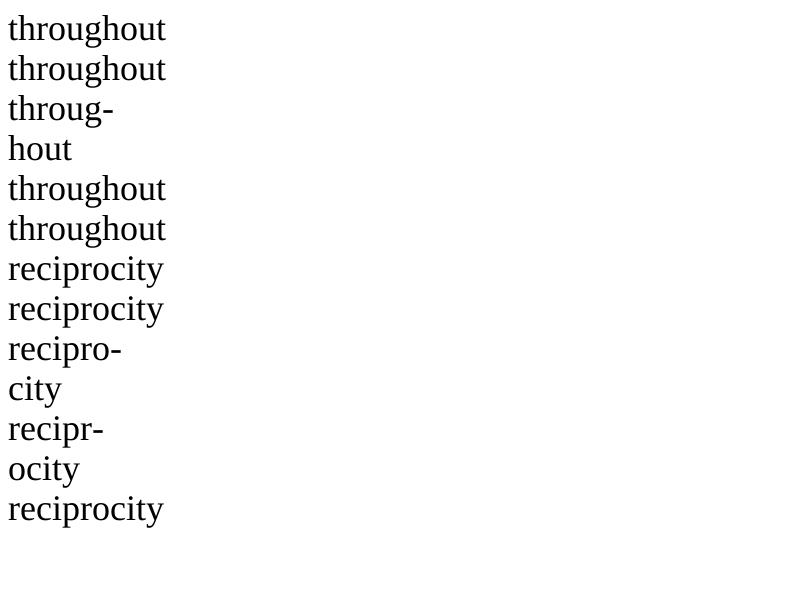
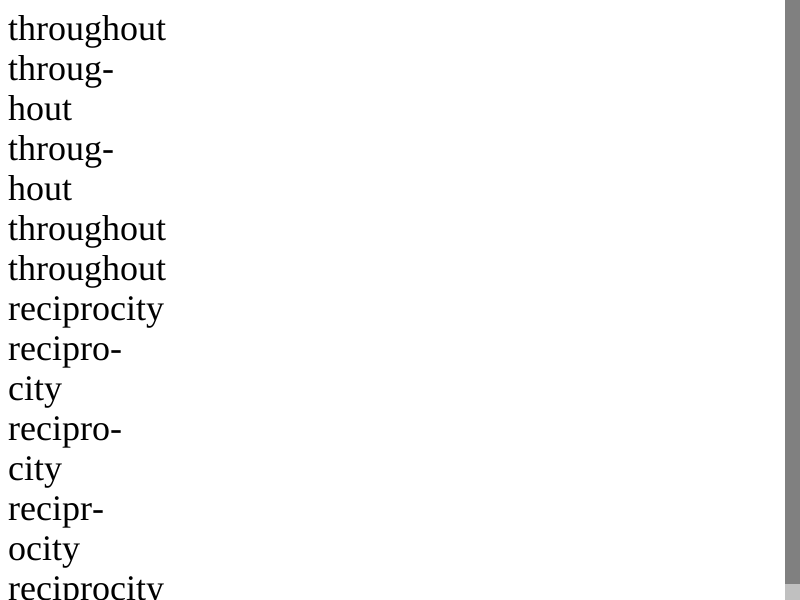
[GTK] [EFL] Hyphenation can never work in practice due to requirements on lang tags https://bugs.webkit.org/show_bug.cgi?id=147310
Patch by Martin Robinson <mrobinson@igalia.com> on 2016-01-14
Reviewed by Michael Catanzaro.

Source/WebCore:

Test: platform/gtk/fast/text/hyphenate-flexible-locales.html

* platform/text/hyphen/HyphenationLibHyphen.cpp: Make locale matching for dictionary
selection a lot looser by matching case insensitively, matching multiple dictionaries
when only the language is specified, and ignoring the difference between '_' and '-' in
the locale name.
(WebCore::scanDirectoryForDicionaries): Now produce HashMap of Vectors instead of a single
path for each locale. Also add alternate entries to handle different ways of specifying
the locale.
(WebCore::scanTestDictionariesDirectoryIfNecessary): Update to handle the difference
in HashMap type.
(WebCore::availableLocales): Ditto.
(WebCore::canHyphenate): Also look for the lowercased version of the locale.
(WebCore::AtomicStringKeyedMRUCache<RefPtr<HyphenationDictionary>>::createValueForKey):
Key on the dictionary path now so that we can load more than one dictionary per locale.
(WebCore::lastHyphenLocation): Iterate through each matched dictionary in turn.

LayoutTests:

Update some baselines and add a GTK+ specific test for locale variations.

* platform/gtk/fast/text/hyphenate-flexible-locales-expected.html: Added.
* platform/gtk/fast/text/hyphenate-flexible-locales.html: Added.
* platform/gtk/fast/text/hyphenate-locale-expected.png: We now properly hyphenate
text with the 'en' locale.
[…]

diff --git a/LayoutTests/platform/gtk/fast/text/hyphenate-flexible-locales-expected.html b/LayoutTests/platform/gtk/fast/text/hyphenate-flexible-locales-expected.html
@@ -1,0 +1,11 @@
+<div style="-webkit-hyphens: auto; font-size: 36px; width: 130px;">
+    <div style="-webkit-locale: 'en_US';">throughout</div>
+    <div style="-webkit-locale: 'en_US';">throughout</div>
+    <div style="-webkit-locale: 'en_US';">throughout</div>
+    <div style="-webkit-locale: 'en_US';">throughout</div>
+    <div style="-webkit-locale: 'en_US';">throughout</div>
+    <div style="-webkit-locale: 'en_US';">throughout</div>
+    <div style="-webkit-locale: 'en_US';">throughout</div>
+    <div style="-webkit-locale: 'en_US';">throughout</div>
+    <div style="-webkit-locale: 'en_US';">throughout</div>
+</div>

diff --git a/LayoutTests/platform/gtk/fast/text/hyphenate-flexible-locales.html b/LayoutTests/platform/gtk/fast/text/hyphenate-flexible-locales.html
@@ -1,0 +1,11 @@
+<div style="-webkit-hyphens: auto; font-size: 36px; width: 130px;">
+    <div style="-webkit-locale: 'en';">throughout</div>
+    <div style="-webkit-locale: 'en_US';">throughout</div>
+    <div style="-webkit-locale: 'en-US';">throughout</div>
+    <div style="-webkit-locale: 'en';">throughout</div>
+    <div style="-webkit-locale: 'en_us';">throughout</div>
+    <div style="-webkit-locale: 'en-us';">throughout</div>
+    <div style="-webkit-locale: 'EN';">throughout</div>
+    <div style="-webkit-locale: 'EN_US';">throughout</div>
+    <div style="-webkit-locale: 'EN-US';">throughout</div>
+</div>

diff --git a/Source/WebCore/platform/text/hyphen/HyphenationLibHyphen.cpp b/Source/WebCore/platform/text/hyphen/HyphenationLibHyphen.cpp
@@ -60,14 +60,27 @@ static String extractLocaleFromDictionaryFilePath(const String& filePath)
     return fileName.substring(prefixLength, fileName.length() - prefixLength - suffixLength);
 }
 
-static void scanDirectoryForDicionaries(const char* directoryPath, HashMap<AtomicString, String>& availableLocales)
+static void scanDirectoryForDicionaries(const char* directoryPath, HashMap<AtomicString, Vector<String>>& availableLocales)
 {
-    for (const auto& filePath : listDirectory(directoryPath, "hyph_*.dic"))
-        availableLocales.set(AtomicString(extractLocaleFromDictionaryFilePath(filePath)), filePath);
+    for (const auto& filePath : listDirectory(directoryPath, "hyph_*.dic")) {
+        String locale = extractLocaleFromDictionaryFilePath(filePath).convertToASCIILowercase();
+        availableLocales.add(locale, Vector<String>()).iterator->value.append(filePath);
+
+        String localeReplacingUnderscores = String(locale);
+        localeReplacingUnderscores.replace('_', '-');
+        if (locale != localeReplacingUnderscores)
+            availableLocales.add(localeReplacingUnderscores, Vector<String>()).iterator->value.append(filePath);
+
+        size_t dividerPosition = localeReplacingUnderscores.find('-');
+        if (dividerPosition != notFound) {
+            localeReplacingUnderscores.truncate(dividerPosition);
+            availableLocales.add(localeReplacingUnderscores, Vector<String>()).iterator->value.append(filePath);
+        }
+    }
 }
 
 #if ENABLE(DEVELOPER_MODE)
-static void scanTestDictionariesDirectoryIfNecessary(HashMap<AtomicString, String>& availableLocales)
+static void scanTestDictionariesDirectoryIfNecessary(HashMap<AtomicString, Vector<String>>& availableLocales)
 {
     // It's unfortunate that we need to look for the dictionaries this way, but
     // libhyphen doesn't have the concept of installed dictionaries. Instead,
@@ -89,10 +102,10 @@ static void scanTestDictionariesDirectoryIfNecessary(HashMap<AtomicString, Strin
 }
 #endif
 
-static HashMap<AtomicString, String>& availableLocales()
+static HashMap<AtomicString, Vector<String>>& availableLocales()
 {
     static bool scannedLocales = false;
-    static HashMap<AtomicString, String> availableLocales;
+    static HashMap<AtomicString, Vector<String>> availableLocales;
 
     if (!scannedLocales) {
         for (size_t i = 0; i < WTF_ARRAY_LENGTH(gDictionaryDirectories); i++)
@@ -112,7 +125,9 @@ bool canHyphenate(const AtomicString& localeIdentifier)
 {
     if (localeIdentifier.isNull())
         return false;
-    return availableLocales().contains(localeIdentifier);
+    if (availableLocales().contains(localeIdentifier))
+        return true;
+    return availableLocales().contains(AtomicString(localeIdentifier.string().convertToASCIILowercase()));
 }
 
 class HyphenationDictionary : public RefCounted<HyphenationDictionary> {
@@ -158,10 +173,9 @@ RefPtr<HyphenationDictionary> AtomicStringKeyedMRUCache<RefPtr<HyphenationDictio
 }
 
 template<>
-RefPtr<HyphenationDictionary> AtomicStringKeyedMRUCache<RefPtr<HyphenationDictionary>>::createValueForKey(const AtomicString& localeIdentifier)
+RefPtr<HyphenationDictionary> AtomicStringKeyedMRUCache<RefPtr<HyphenationDictionary>>::createValueForKey(const AtomicString& dictionaryPath)
 {
-    ASSERT(availableLocales().get(localeIdentifier));
-    return HyphenationDictionary::create(fileSystemRepresentation(availableLocales().get(localeIdentifier)));
+    return HyphenationDictionary::create(fileSystemRepresentation(dictionaryPath.string()));
 }
 
 static AtomicStringKeyedMRUCache<RefPtr<HyphenationDictionary>>& hyphenDictionaryCache()
@@ -190,9 +204,6 @@ static void countLeadingSpaces(const CString& utf8String, int32_t& pointerOffset
 
 size_t lastHyphenLocation(StringView string, size_t beforeIndex, const AtomicString& localeIdentifier)
 {
-    ASSERT(availableLocales().contains(localeIdentifier));
-    RefPtr<HyphenationDictionary> dictionary = hyphenDictionaryCache().get(localeIdentifier);
-
     // libhyphen accepts strings in UTF-8 format, but WebCore can only provide StringView
     // which stores either UTF-16 or Latin1 data. This is unfortunate for performance
     // reasons and we should consider switching to a more flexible hyphenation library
@@ -211,32 +222,38 @@ size_t lastHyphenLocation(StringView string, size_t beforeIndex, const AtomicStr
     Vector<char> hyphenArray(utf8StringCopy.length() - leadingSpaceBytes + 5);
     char* hyphenArrayData = hyphenArray.data();
 
-    char** replacements = nullptr;
-    int* positions = nullptr;
-    int* removedCharacterCounts = nullptr;
-    hnj_hyphen_hyphenate2(dictionary->libhyphenDictionary(),
-        utf8StringCopy.data() + leadingSpaceBytes,
-        utf8StringCopy.length() - leadingSpaceBytes,
-        hyphenArrayData,
-        nullptr, /* output parameter for hyphenated word */
-        &replacements,
-        &positions,
-        &removedCharacterCounts);
+    String lowercaseLocaleIdentifier = AtomicString(localeIdentifier.string().convertToASCIILowercase());
+    ASSERT(availableLocales().contains(lowercaseLocaleIdentifier));
+    for (const auto& dictionaryPath : availableLocales().get(lowercaseLocaleIdentifier)) {
+        RefPtr<HyphenationDictionary> dictionary = hyphenDictionaryCache().get(AtomicString(dictionaryPath));
 
-    if (replacements) {
-        for (unsigned i = 0; i < utf8StringCopy.length() - leadingSpaceBytes - 1; i++)
-            free(replacements[i]);
-        free(replacements);
-    }
+        char** replacements = nullptr;
+        int* positions = nullptr;
+        int* removedCharacterCounts = nullptr;
+        hnj_hyphen_hyphenate2(dictionary->libhyphenDictionary(),
+            utf8StringCopy.data() + leadingSpaceBytes,
+            utf8StringCopy.length() - leadingSpaceBytes,
+            hyphenArrayData,
+            nullptr, /* output parameter for hyphenated word */
+            &replacements,
+            &positions,
+            &removedCharacterCounts);
 
-    free(positions);
-    free(removedCharacterCounts);
+        if (replacements) {
+            for (unsigned i = 0; i < utf8StringCopy.length() - leadingSpaceBytes - 1; i++)
+                free(replacements[i]);
+            free(replacements);
+        }
 
-    for (int i = beforeIndex - leadingSpaceCharacters - 1; i >= 0; i--) {
-        // libhyphen will put an odd number in hyphenArrayData at all
-        // hyphenation points. A number & 1 will be true for odd numbers.
-        if (hyphenArrayData[i] & 1)
-            return i + leadingSpaceCharacters;
+        free(positions);
+        free(removedCharacterCounts);
+
+        for (int i = beforeIndex - leadingSpaceCharacters - 1; i >= 0; i--) {
+            // libhyphen will put an odd number in hyphenArrayData at all
+            // hyphenation points. A number & 1 will be true for odd numbers.
+            if (hyphenArrayData[i] & 1)
+                return i + leadingSpaceCharacters;
+        }
     }
 
     return 0;
